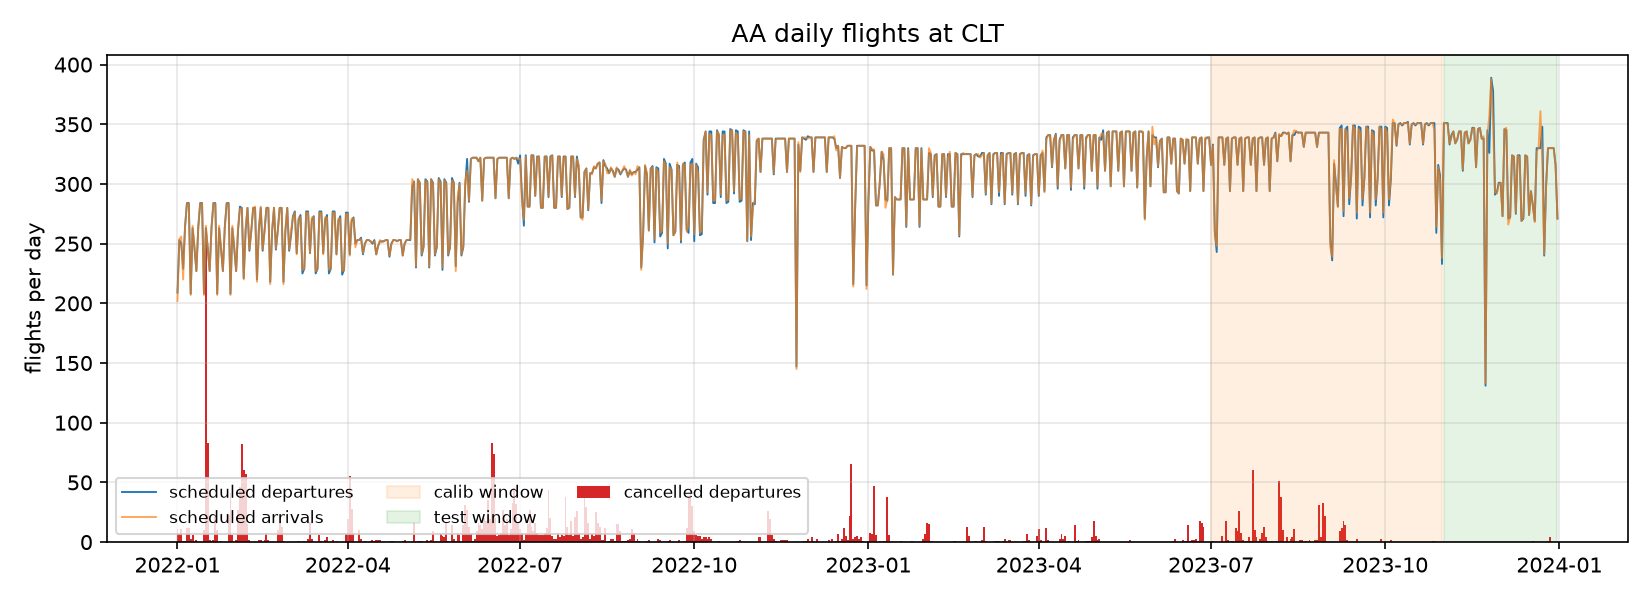
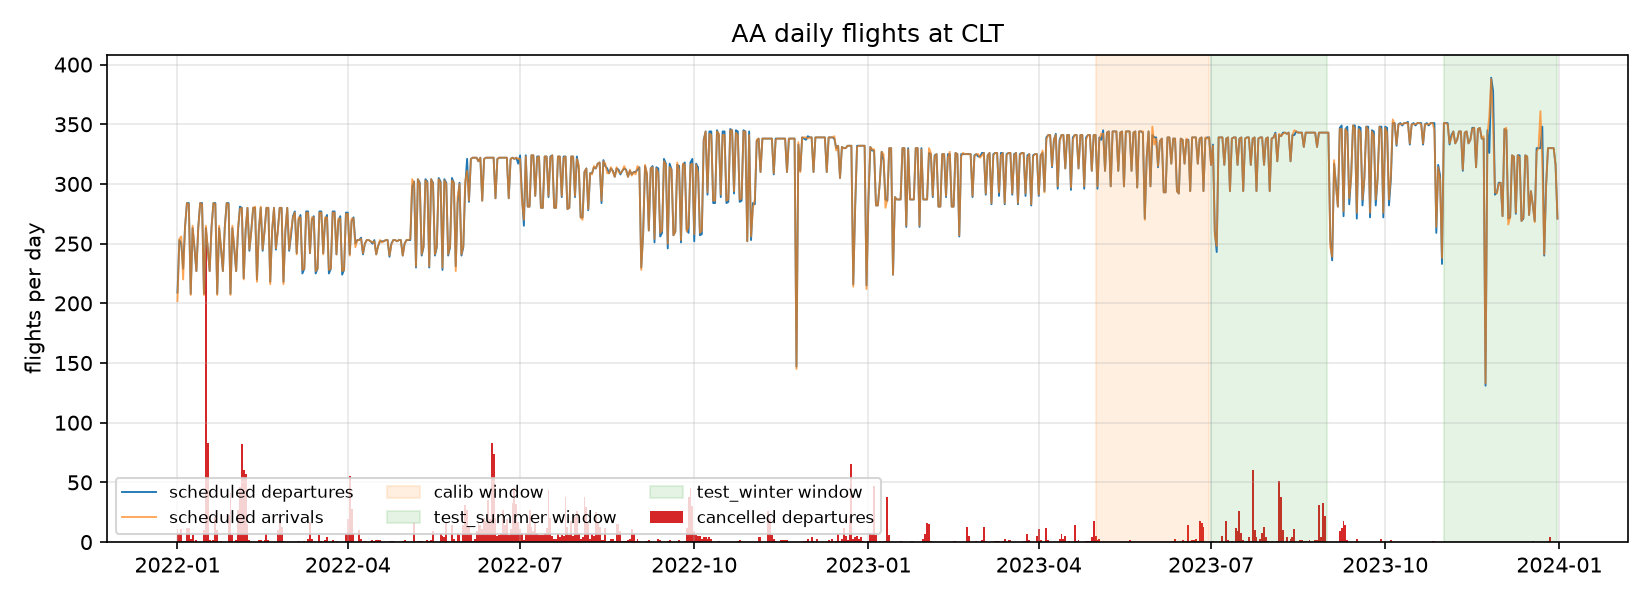
Use two test windows (summer storms, calm winter); retrain/calib splits move earlier

Changed region(s): [[0.6491, 0.09, 0.8964, 0.9], [0.2782, 0.78, 0.5564, 0.9]]

diff --git a/src/robust_crew/config.py b/src/robust_crew/config.py
@@ -15,14 +15,28 @@ HUB = "CLT"  # crew base; every pairing starts and ends here
 
 # --- Time splits (inclusive, local scheduled departure date) ------------------
 # Train: model fitting + historical route stats. Calib: probability calibration
-# and validation. Test: planning + replay evaluation. Nothing from CALIB or TEST
-# may reach training tables; nothing from TEST may reach planning inputs.
+# and validation. Test windows: planning + replay evaluation only.
+#
+# Two test windows, chosen by season:
+#   test_summer  Jul-Aug 2023: convective-thunderstorm season, CLT's main
+#                delay driver; the regime where robustness should pay.
+#   test_winter  Nov-Dec 2023: the originally planned window. It turned out
+#                unusually calm for AA (Phase 1 report), so it measures what
+#                robustness costs when little goes wrong.
+# The two-window design was adopted AFTER Phase 1 showed Nov-Dec 2023 was calm;
+# the original window is kept so that choice cannot hide an unfavourable result.
+# Sep-Oct 2023 is an unused gap. One model (trained on TRAIN, calibrated on
+# CALIB) is frozen and used for both test windows.
 TRAIN_START = date(2022, 1, 1)
-TRAIN_END = date(2023, 6, 30)
-CALIB_START = date(2023, 7, 1)
-CALIB_END = date(2023, 10, 31)
-TEST_START = date(2023, 11, 1)
-TEST_END = date(2023, 12, 31)
+TRAIN_END = date(2023, 4, 30)
+CALIB_START = date(2023, 5, 1)
+CALIB_END = date(2023, 6, 30)
+TEST_WINDOWS: dict[str, tuple[date, date]] = {
+    "test_summer": (date(2023, 7, 1), date(2023, 8, 31)),
+    "test_winter": (date(2023, 11, 1), date(2023, 12, 31)),
+}
+TEST_START = min(a for a, _ in TEST_WINDOWS.values())  # nothing on/after this may train or calibrate
+TEST_END = max(b for _, b in TEST_WINDOWS.values())
 
 DATA_START = TRAIN_START
 DATA_END = TEST_END
@@ -42,14 +56,22 @@ MONTHS = months_in_range(DATA_START, DATA_END)
 
 
 def split_of(d: date) -> str:
-    """Name of the split a date belongs to: 'train', 'calib', 'test' or 'none'."""
+    """Split a date belongs to: 'train', 'calib', a TEST_WINDOWS key, 'gap' or 'none'."""
     if TRAIN_START <= d <= TRAIN_END:
         return "train"
     if CALIB_START <= d <= CALIB_END:
         return "calib"
-    if TEST_START <= d <= TEST_END:
-        return "test"
+    for name, (a, b) in TEST_WINDOWS.items():
+        if a <= d <= b:
+            return name
+    if CALIB_END < d < TEST_END:
+        return "gap"
     return "none"
+
+
+def is_test(split: str) -> bool:
+    """True for any test-window split name."""
+    return split in TEST_WINDOWS
 
 
 # --- Paths ---------------------------------------------------------------------

diff --git a/tests/test_leakage.py b/tests/test_leakage.py
@@ -12,19 +12,25 @@ from robust_crew.leakage import TRAINING_TABLES, assert_no_dates_after
 def test_splits_are_ordered_and_disjoint():
     assert config.TRAIN_START <= config.TRAIN_END < config.CALIB_START <= config.CALIB_END
     assert config.CALIB_END < config.TEST_START <= config.TEST_END
+    windows = sorted(config.TEST_WINDOWS.values())
+    for (a1, b1), (a2, _) in zip(windows, windows[1:]):
+        assert a1 <= b1 < a2, "test windows overlap"
 
 
 def test_split_of_boundaries():
     assert config.split_of(config.TRAIN_END) == "train"
     assert config.split_of(config.CALIB_START) == "calib"
     assert config.split_of(config.TEST_START - timedelta(days=1)) == "calib"
-    assert config.split_of(config.TEST_START) == "test"
+    assert config.split_of(date(2023, 7, 1)) == "test_summer"
+    assert config.split_of(date(2023, 9, 15)) == "gap"
+    assert config.split_of(date(2023, 12, 31)) == "test_winter"
+    assert config.is_test("test_summer") and not config.is_test("gap")
     assert config.split_of(date(2021, 12, 31)) == "none"
 
 
 def test_guard_catches_a_leak():
     con = duckdb.connect()
-    con.execute("CREATE TABLE t AS SELECT DATE '2023-06-30' AS d")
+    con.execute("CREATE TABLE t AS SELECT ?::DATE AS d", [config.TRAIN_END])
     assert_no_dates_after(con, "t", "d")  # last train day is fine
     con.execute("INSERT INTO t VALUES (DATE '2023-11-15')")
     with pytest.raises(AssertionError, match="leakage"):

diff --git a/src/robust_crew/quality.py b/src/robust_crew/quality.py
@@ -45,7 +45,7 @@ def collect(con: duckdb.DuckDBPyConnection) -> dict:
     s: dict = {"carrier": c, "hub": h, "splits": {
         "train": [str(config.TRAIN_START), str(config.TRAIN_END)],
         "calib": [str(config.CALIB_START), str(config.CALIB_END)],
-        "test": [str(config.TEST_START), str(config.TEST_END)],
+        **{k: [str(a), str(b)] for k, (a, b) in config.TEST_WINDOWS.items()},
     }}
 
     log = _rows(con, "SELECT * FROM ingest_log WHERE source='bts' ORDER BY year, month")
@@ -138,8 +138,9 @@ def plot_daily(con: duckdb.DuckDBPyConnection) -> str:
     ax.plot(days, [r[1] for r in rows], lw=0.9, label="scheduled departures")
     ax.plot(days, [r[2] for r in rows], lw=0.9, alpha=0.7, label="scheduled arrivals")
     ax.bar(days, [r[3] for r in rows], width=1.0, color="tab:red", label="cancelled departures")
-    for name, a, b, col in [("calib", config.CALIB_START, config.CALIB_END, "tab:orange"),
-                            ("test", config.TEST_START, config.TEST_END, "tab:green")]:
+    windows = [("calib", config.CALIB_START, config.CALIB_END, "tab:orange")] + [
+        (k, a, b, "tab:green") for k, (a, b) in config.TEST_WINDOWS.items()]
+    for name, a, b, col in windows:
         ax.axvspan(a, b, color=col, alpha=0.12, label=f"{name} window")
     ax.set_title(f"{config.CARRIER} daily flights at {config.HUB}")
     ax.set_ylabel("flights per day")

diff --git a/reports/phase1_data_quality.md b/reports/phase1_data_quality.md
@@ -18,9 +18,11 @@ _Generated by `python -m robust_crew.quality`; do not edit by hand._
 
 | split | days | mean | min | max | cancelled_pct |
 |---|---|---|---|---|---|
-| train | 546 | 298.9 | 147 | 346 | 2.0 |
-| calib | 123 | 328.6 | 233 | 352 | 1.19 |
-| test | 61 | 318.0 | 131 | 389 | 0.03 |
+| train | 485 | 295.2 | 147 | 346 | 2.22 |
+| calib | 61 | 328.0 | 271 | 345 | 0.45 |
+| test_summer | 62 | 331.7 | 243 | 344 | 2.03 |
+| gap | 61 | 325.4 | 233 | 352 | 0.33 |
+| test_winter | 61 | 318.0 | 131 | 389 | 0.03 |
 
 ![daily flights](figures/daily_hub_flights.png)
 
@@ -28,9 +30,11 @@ _Generated by `python -m robust_crew.quality`; do not edit by hand._
 
 | split | flights | cancelled_pct | diverted_pct | mean_dep_delay_min | arr_del15_pct |
 |---|---|---|---|---|---|
-| train | 326398 | 2.04 | 0.203 | 14.6 | 22.2 |
-| calib | 80837 | 1.22 | 0.224 | 20.4 | 24.5 |
-| test | 38788 | 0.04 | 0.134 | 10.1 | 16.7 |
+| train | 286383 | 2.25 | 0.193 | 13.8 | 21.9 |
+| calib | 40015 | 0.5 | 0.272 | 20.1 | 24.7 |
+| test_summer | 41134 | 2.06 | 0.292 | 28.9 | 30.8 |
+| gap | 39703 | 0.34 | 0.154 | 11.8 | 18.2 |
+| test_winter | 38788 | 0.04 | 0.134 | 10.1 | 16.7 |
 
 ## Missing values, carrier flights touching the hub (%)
 
@@ -57,7 +61,7 @@ BTS fills delay-cause columns only for flights arriving 15+ minutes late; nulls 
 
 ## Weather (IEM ASOS)
 
-Observations: 325,611
+Observations: 325,793
 
 | station | obs | first | last | hours_covered | hour_coverage_pct |
 |---|---|---|---|---|---|
@@ -71,9 +75,9 @@ Observations: 325,611
 | MIA | 20210 | 2022-01-01 | 2023-12-31 | 17516 | 99.98 |
 | MCO | 20190 | 2022-01-01 | 2023-12-31 | 17514 | 99.97 |
 | TPA | 20137 | 2022-01-01 | 2023-12-31 | 17515 | 99.97 |
+| AUS | 20011 | 2022-01-01 | 2023-12-31 | 17509 | 99.94 |
 | CLT | 20009 | 2022-01-01 | 2023-12-31 | 17395 | 99.29 |
 | EWR | 19877 | 2022-01-01 | 2023-12-31 | 17516 | 99.98 |
-| RIC | 19829 | 2022-01-01 | 2023-12-31 | 17499 | 99.88 |
 | RDU | 19790 | 2022-01-01 | 2023-12-31 | 17515 | 99.97 |
 | FLL | 19772 | 2022-01-01 | 2023-12-31 | 17486 | 99.81 |
 | PHX | 18227 | 2022-01-01 | 2023-12-31 | 17511 | 99.95 |
@@ -82,6 +86,6 @@ Missing values (%):
 
 | tmpf | sknt | gust | vsby | p01i | skyc1 | ceiling_ft | wxcodes |
 |---|---|---|---|---|---|---|---|
-| 0.02 | 0.13 | 86.38 | 0.02 | 0.15 | 0.02 | 43.39 | 83.22 |
+| 0.02 | 0.13 | 85.86 | 0.02 | 0.15 | 0.02 | 43.88 | 83.52 |
 
 gust, ceiling_ft and wxcodes are null when no gust / no ceiling / no weather is reported

diff --git a/README.md b/README.md
@@ -13,3 +13,15 @@ uv run python -m robust_crew.quality
 ```
 
 > Crews are synthetic and crew rules are a simplified model inspired by FAA Part 117. Nothing here is a claim of legal or contractual compliance.
+
+## Evaluation windows
+
+| Split | Dates | Use |
+|---|---|---|
+| train | 2022-01-01 to 2023-04-30 | delay model fitting, historical route stats |
+| calib | 2023-05-01 to 2023-06-30 | probability calibration / validation |
+| test_summer | 2023-07-01 to 2023-08-31 | planning + replay (thunderstorm season) |
+| gap | 2023-09-01 to 2023-10-31 | unused |
+| test_winter | 2023-11-01 to 2023-12-31 | planning + replay (originally planned window) |
+
+The original plan had a single Nov-Dec 2023 test window. Phase 1 showed it was unusually calm for AA (see the data quality report), so a summer window was added, chosen by season rather than by its observed delays. The original window is kept and reported, so this change cannot hide an unfavourable result.
